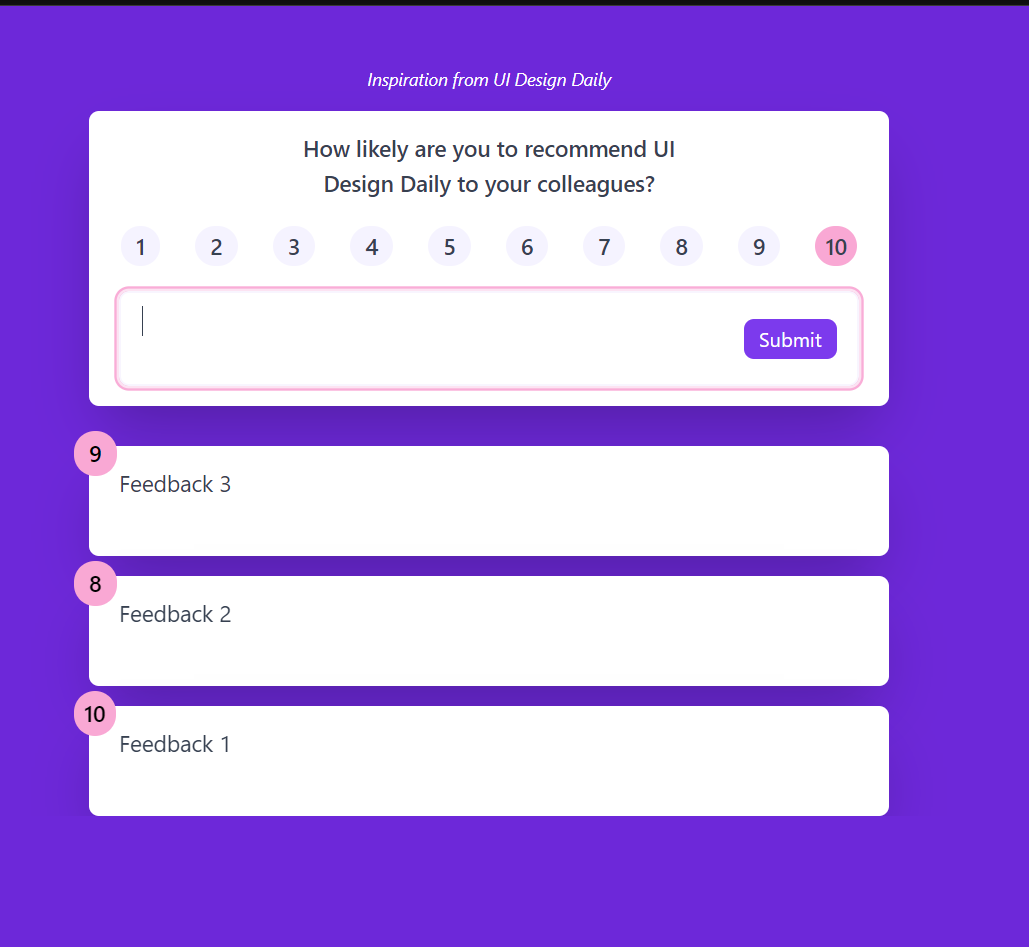
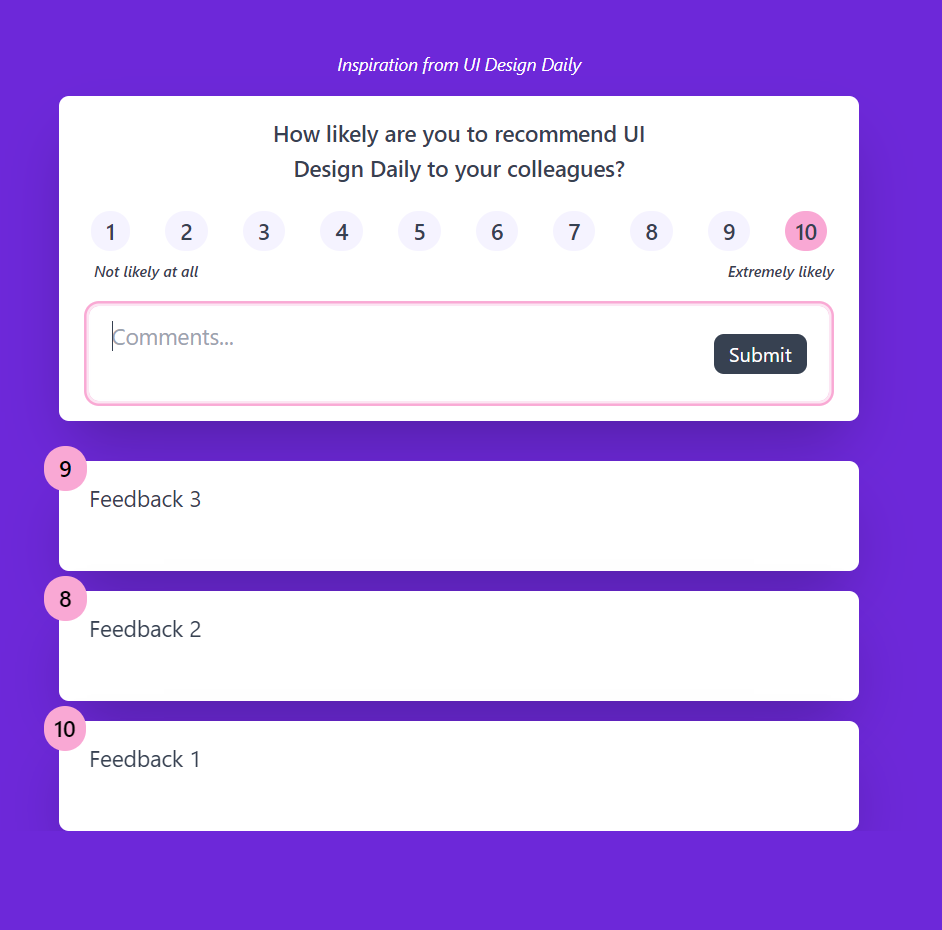
minor changes

Changed region(s): [[0.0308, 0.0624, 0.9236, 0.9043], [0.0, 0.0, 1.0, 0.0312]]

diff --git a/feedback-ui/src/components/FeedbackForm.jsx b/feedback-ui/src/components/FeedbackForm.jsx
@@ -25,7 +25,7 @@ const FeedbackForm = ({ submit }) => {
           colleagues?
         </RadioGroup.Label>
         <div
-          className="flex space-x-1 md:space-x-6 xl:space-x-7 justify-center items-center
+          className="flex space-x-1 md:space-x-6 lg:space-x-5 xl:space-x-7 justify-center items-center
              h-10 transition-all duration-300"
         >
           {[1, 2, 3, 4, 5, 6, 7, 8, 9, 10].map((el) => (
@@ -54,10 +54,16 @@ const FeedbackForm = ({ submit }) => {
           ))}
         </div>
       </RadioGroup>
+      <div className="relative p-1 w-full">
+        <div className="flex justify-between items-center w-full italic text-xs absolute -mt-4 text-gray-700">
+          <span>Not likely at all</span>
+          <span>Extremely likely</span>
+        </div>
+      </div>
       <div
         className="py-2 px-4 border-2 border-purple-500 focus-within:border-transparent  transition duration-300
              focus-within:ring-2 focus-within:ring-pink-300 focus-within:ring-offset-2 focus-within:ring-offset-pink-100
-              rounded-lg flex items-center w-full"
+              rounded-lg flex space-x-1 items-center w-full"
       >
         <textarea
           className="outline-none appearance-none resize-none text-gray-700 flex-1 overflow-y-auto scrollbar-thin
@@ -67,11 +73,20 @@ const FeedbackForm = ({ submit }) => {
             if (ev.code == "Enter" && !ev.shiftKey) callSubmit();
             else setComments(ev.target.value);
           }}
+          placeholder="Comments..."
         ></textarea>
         <button
-          className="appearance-none outline-none py-1 px-3 rounded-lg transition
+          className={`appearance-none outline-none py-1 px-3 rounded-lg transition
              duration-300 bg-purple-600 text-white hover:opacity-90 focus:ring-2 focus:ring-purple-600
-             focus:ring-offset-2 focus:ring-offset-purple-100 text-base"
+             focus:ring-offset-2 focus:ring-offset-purple-100 text-base
+             ${
+               comments.trim() == ""
+                 ? "cursor-not-allowed bg-gray-700"
+                 : "cursor-pointer"
+             }
+             `}
+          disabled={comments.trim() == ""}
+          title={comments.trim() == "" ? "Please fill in Comments..." : ""}
           onClick={() => {
             callSubmit();
           }}

diff --git a/feedback-ui/readme.md b/feedback-ui/readme.md
@@ -2,7 +2,7 @@
 
 Sample Feedback UI using Vite, React & Tailwind CSS
 
-![Screenshot](https://github.com/gouthamrangarajan/reactjs/blob/main/feedback-ui/Screenshot.PNG)\
+![Screenshot](https://github.com/gouthamrangarajan/reactjs/blob/main/feedback-ui/Screenshot.PNG)
 
 #### Highlights
 
